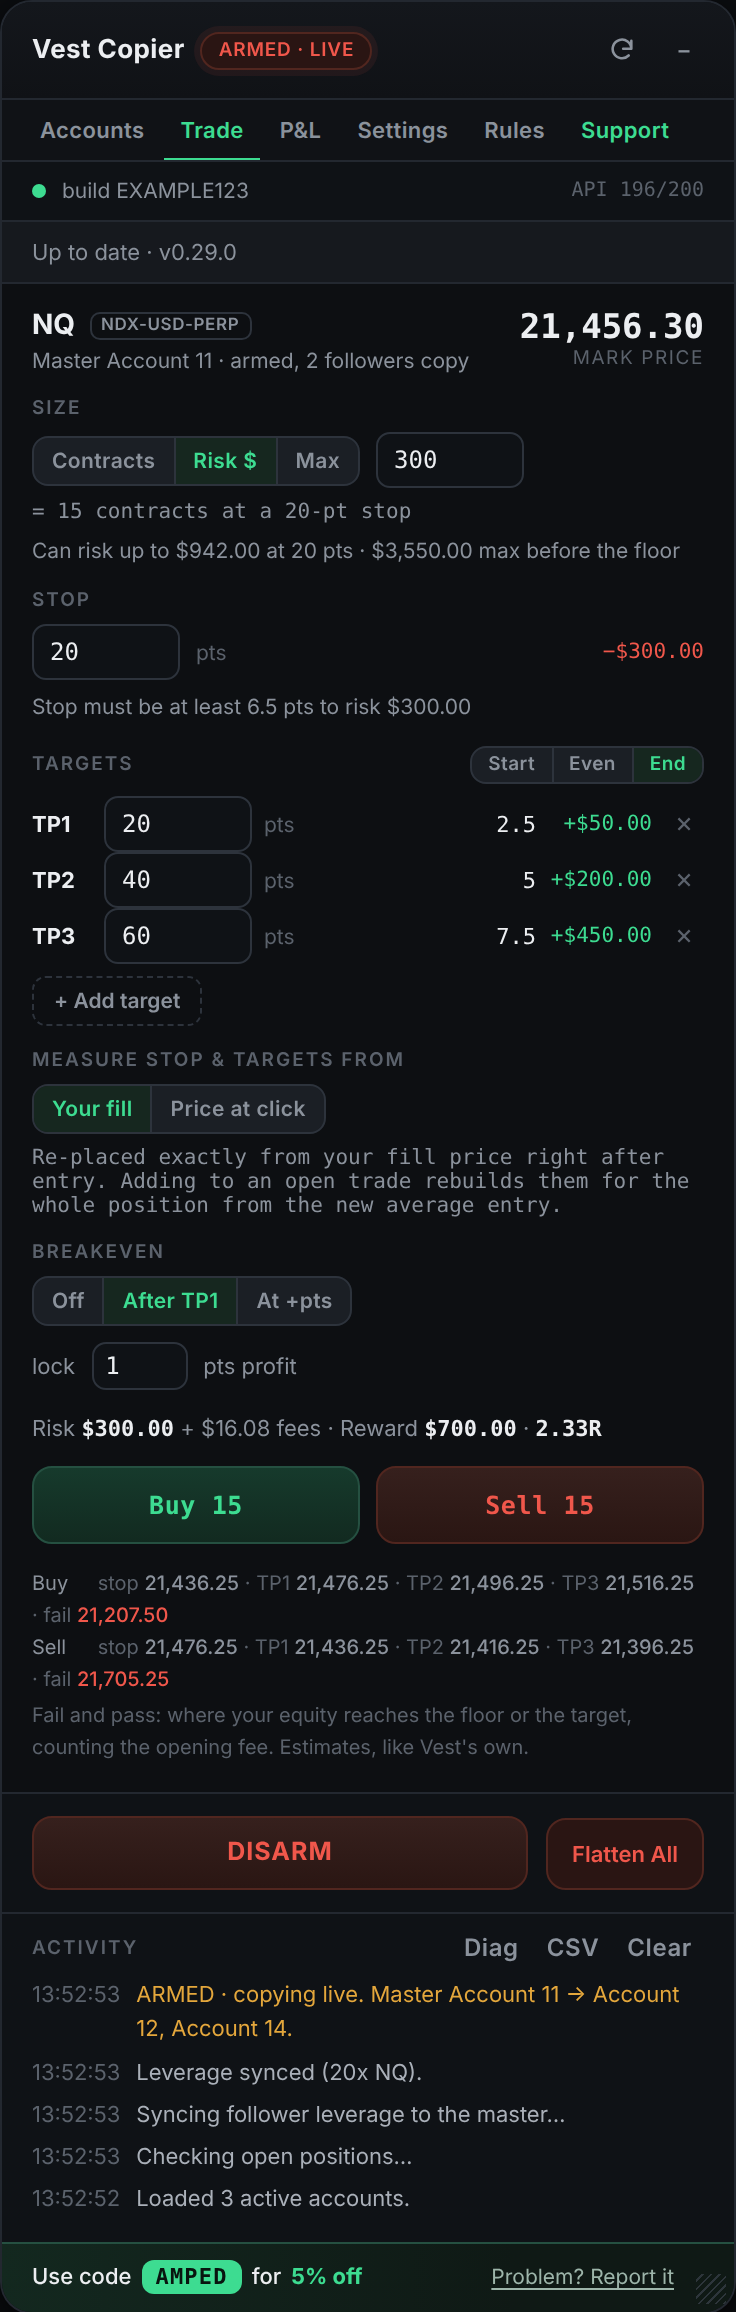
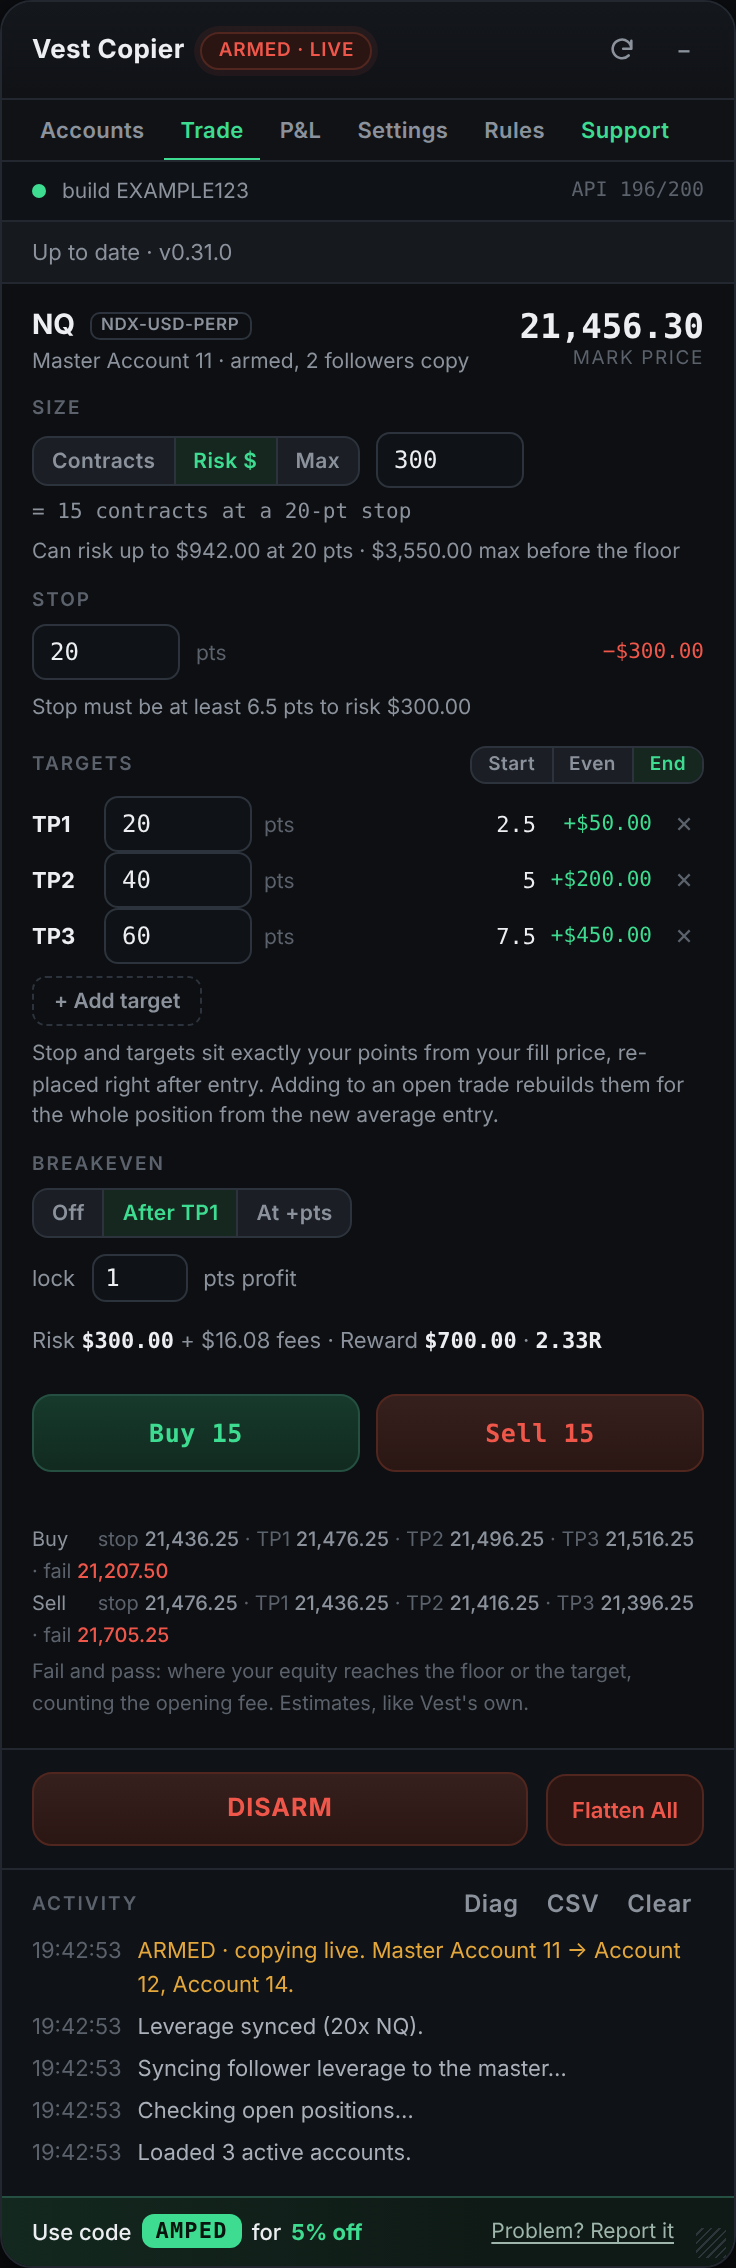
Vest Copier v0.31.0

diff --git a/src/vest-copier.user.js b/src/vest-copier.user.js
@@ -1,7 +1,7 @@
 // ==UserScript==
 // @name         Vest Copier
 // @namespace    vestcopier
-// @version      0.30.1
+// @version      0.31.0
 // @description  Copies a master Vest account's trades to your other Vest accounts, live, and adds a points-based order panel.
 // @author       xAmped
 // @license      Vest Copier License — free to use, no selling; see LICENSE
@@ -22,7 +22,7 @@
   if (window.__vestCopier) return;
   window.__vestCopier = true;
 
-  const VERSION = '0.30.1';
+  const VERSION = '0.31.0';
   const API = 'https://api-gateway.hz.vestmarkets.com';
   const _fetch = window.fetch.bind(window);
   // Console echo of the activity log, for troubleshooting: localStorage.setItem('vc-debug', '1') and reload.
@@ -109,7 +109,6 @@
       beMode: 'tp1',
       beTrigger: 15,
       beOffset: 1,
-      anchor: 'fill',
     },
     price: {}, // symbol -> { px, at } live price
   };
@@ -2283,6 +2282,7 @@
       symbol: SYMBOLS[t.symbol] ? t.symbol : S.trade.symbol,
       targets: Array.isArray(t.targets) && t.targets.length ? t.targets : S.trade.targets,
     });
+    delete S.trade.anchor; // "Price at click" was removed in v0.31.0: stop and targets are always measured from the fill
   }
   function saveTrade() {
     store.set(TRADE_KEY, S.trade);
@@ -3895,6 +3895,21 @@
       flex-direction: column;
       gap: 12px;
     }
+    /* Buy / Sell stay in view while the form scrolls */
+    .tr-action {
+      position: sticky;
+      bottom: -14px;
+      z-index: 2;
+      display: flex;
+      flex-direction: column;
+      gap: 6px;
+      margin: 0 -15px;
+      padding: 8px 15px 14px;
+      background: linear-gradient(180deg, rgba(13, 15, 18, 0.88), var(--bg) 30%);
+    }
+    .panel.v-trade .log {
+      max-height: 11vh;
+    }
     .tr-top {
       display: flex;
       justify-content: space-between;
@@ -4469,6 +4484,7 @@
       panel.style.top = drag.oy + e.clientY - drag.sy + 'px';
     });
     const endDrag = () => {
+      if (drag && S.tradeOpen) fitPanel(); // moved: the Trade tab refits to the new spot
       drag = null;
     };
     hdr.addEventListener('pointerup', endDrag);
@@ -4507,6 +4523,7 @@
     };
     on('[data-act="collapse"]', (e) => {
       const collapsed = panel.classList.toggle('collapsed');
+      fitPanel();
       const b = e.currentTarget;
       b.textContent = collapsed ? '+' : '–';
       b.title = collapsed ? 'Expand' : 'Collapse';
@@ -4584,6 +4601,20 @@
               : S.rulesOpen
                 ? 'rules'
                 : 'accounts';
+  // On the Trade tab the panel grows to the bottom of the window (from wherever it sits), so the whole order form fits
+  // without resizing by hand; elsewhere it keeps the size the user gave it. Never saved: leaving the tab restores it.
+  function fitPanel() {
+    const panel = _root && _root.querySelector('.panel');
+    if (!panel) return;
+    panel.classList.toggle('v-trade', !!S.tradeOpen);
+    const saved = store.get(SIZE_KEY, null);
+    if (S.tradeOpen && !panel.classList.contains('collapsed')) {
+      const top = Math.max(0, panel.getBoundingClientRect().top);
+      panel.style.maxHeight = Math.max(320, window.innerHeight - top - 16) + 'px';
+    } else panel.style.maxHeight = saved && saved.h ? saved.h + 'px' : '';
+  }
+  window.addEventListener('resize', () => S.tradeOpen && fitPanel());
+
   function setView(v) {
     S.tradeOpen = v === 'trade';
     S.summaryOpen = v === 'summary';
@@ -4676,6 +4707,7 @@
       b.setAttribute('aria-selected', String(b.dataset.tab === view));
     });
     renderLog();
+    fitPanel();
   }
 
   function renderSiteCheck(body) {
@@ -4979,14 +5011,8 @@
           ])}</div>
           <div id="tr-targets"></div>
           <button class="tr-add" id="tr-add">+ Add target</button>
-        </div>
-        <div class="tr-sec">
-          <div class="tr-lbl">Measure stop &amp; targets from</div>
-          ${seg('anchor', [
-            ['fill', 'Your fill'],
-            ['click', 'Price at click'],
-          ])}
-          <div class="tr-calc" id="tr-anchornote"></div>
+          <div class="tr-lim">Stop and targets sit exactly your points from your fill price, re-placed right after entry.
+            Adding to an open trade rebuilds them for the whole position from the new average entry.</div>
         </div>
         <div class="tr-sec">
           <div class="tr-lbl">Breakeven</div>
@@ -5002,8 +5028,10 @@
         </div>
         <div class="tr-sum" id="tr-sum"></div>
         <div class="tr-warn" id="tr-warn"></div>
-        <div class="tr-err" id="tr-err"></div>
-        <div class="tr-go"><button class="tr-buy" id="tr-buy">Buy</button><button class="tr-sell" id="tr-sell">Sell</button></div>
+        <div class="tr-action">
+          <div class="tr-err" id="tr-err"></div>
+          <div class="tr-go"><button class="tr-buy" id="tr-buy">Buy</button><button class="tr-sell" id="tr-sell">Sell</button></div>
+        </div>
         <div class="tr-preview" id="tr-preview"></div>
         <div class="tr-plans" id="tr-plans"></div>
       </div>`;
@@ -5205,7 +5233,7 @@
         takeProfitIds: res.takeProfitIds,
         stopLossIds: res.stopLossIds,
       });
-      const reanchorOn = t.anchor !== 'click';
+      const reanchorOn = true; // always: stop and targets end up exactly their points from the real fill
       let bePlan = null;
       if (t.beMode !== 'off') {
         bePlan = {
@@ -5520,7 +5548,7 @@
     });
   }
 
-  // ── Re-anchor after fill (on by default). The order's stop and targets are computed from the live price at the click.
+  // ── Re-anchor after fill (always). The order's stop and targets are computed from the live price at the click.
   // Once filled, read the fill price and the position's leg ids, and move any leg that is off by a tick or more so it
   // sits exactly N points from the fill. Legs are found by the price they were sent at. The moves go through the hooked
   // fetch, so an armed copier moves the followers' matching legs too. Breakeven waits until this is done.
@@ -5905,11 +5933,6 @@
       if (qe) qe.textContent = q ? fmtQty(q, c.t.symbol) : '—';
       if (ge) ge.textContent = q ? '+' + fmtUsd(q * (+p || 0) * c.meta.pointValue) : '';
     });
-    $('tr-anchornote').textContent =
-      (c.t.anchor === 'click'
-        ? 'Placed from the live price when you click.'
-        : 'Re-placed exactly from your fill price right after entry.') +
-      ' Adding to an open trade rebuilds them for the whole position from the new average entry.';
     $('tr-betrigw').style.display = c.t.beMode === 'points' ? '' : 'none';
     body.querySelector('.tr-be').style.display = c.t.beMode === 'off' ? 'none' : '';
     $('tr-sum').innerHTML =
@@ -5947,7 +5970,10 @@
         };
       });
     }
-    $('tr-err').textContent = c.error || (S.adjusting ? 'Adjusting stop & targets…' : '');
+    $('tr-err').textContent =
+      c.error ||
+      (c.blocked ? 'Over what the account can open: use a fix above, or change the size or stop.' : '') ||
+      (S.adjusting ? 'Adjusting stop & targets…' : '');
     const q = c.qty > 0 ? fmtQty(c.qty, c.t.symbol) : '';
     $('tr-buy').textContent = `Buy ${q}`;
     $('tr-sell').textContent = `Sell ${q}`;

diff --git a/docs/tutorial/index.html b/docs/tutorial/index.html
@@ -143,7 +143,7 @@ dd { margin: 0; font-size: 15.5px; }
   <p class="lede">Trade one Vest account and have the same trade placed on your other accounts, live, from inside the Vest page. It also adds a Trade tab where you set your stop and targets in points.</p>
   <div class="video"><iframe src="https://www.youtube-nocookie.com/embed/EMpVqls6D8o" title="Vest Copier setup video" loading="lazy" allow="accelerometer; encrypted-media; gyroscope; picture-in-picture; fullscreen" allowfullscreen></iframe></div>
   <p class="video-link">Prefer YouTube? <a href="https://youtu.be/EMpVqls6D8o">Watch the setup video there</a> (6 minutes).</p>
-  <div class="meta"><span class="pill">v0.30.1</span><span class="pill">next.vestmarkets.com</span><span class="pill">10-minute setup</span><a class="pill" href="https://github.com/xAmped/Vest-Copier">github.com/xAmped/Vest-Copier</a></div>
+  <div class="meta"><span class="pill">v0.31.0</span><span class="pill">next.vestmarkets.com</span><span class="pill">10-minute setup</span><a class="pill" href="https://github.com/xAmped/Vest-Copier">github.com/xAmped/Vest-Copier</a></div>
 </header>
 
 <div class="wrap">
@@ -211,12 +211,11 @@ dd { margin: 0; font-size: 15.5px; }
                 <tr><td>Stop</td><td>Distance from your entry, in points.</td></tr>
                 <tr><td>Targets</td><td>One or more distances in points. <b>+ Add target</b> adds another.</td></tr>
                 <tr><td>Scale</td><td>How the size splits across targets: <b>Start</b> puts the most on TP1, <b>Even</b> splits evenly, <b>End</b> puts the most on the last target.</td></tr>
-                <tr><td>Measure from</td><td><b>Your fill</b> (default) moves the stop and targets to exactly your points from the price you actually got. <b>Price at click</b> leaves them where they were placed.</td></tr>
                 <tr><td>Breakeven</td><td><b>After TP1</b> or <b>At +pts</b> moves the stop to your entry. <b>Lock</b> adds a point or two of profit to cover fees.</td></tr>
               </tbody>
             </table>
           </div>
-          <p>Before you click, the panel shows each target's size and dollar value, your risk (and the fees on top), reward and R, and the exact prices for both Buy and Sell, including where the account would fail or pass. It warns you when the size is more than the account can open, or when a stop-out would take the account past its floor before the stop fills. Stops and targets are placed as Vest's own stop-loss and take-profit orders, so they still work if you close the tab.</p>
+          <p>Before you click, the panel shows each target's size and dollar value, your risk (and the fees on top), reward and R, and the exact prices for both Buy and Sell, including where the account would fail or pass. It warns you when the size is more than the account can open, or when a stop-out would take the account past its floor before the stop fills. Right after you're filled, the stop and targets are moved to exactly your points from the price you actually got. Stops and targets are placed as Vest's own stop-loss and take-profit orders, so they still work if you close the tab.</p>
         </div>
         <figure>
           <div class="shot"><img src="img/trade.png" alt="The Trade tab with a 20-point stop, three targets at 20, 40 and 60 points, and the Buy and Sell buttons." width="340"></div>

diff --git a/docs/USER-GUIDE.md b/docs/USER-GUIDE.md
@@ -144,8 +144,10 @@ like any other master order.
 - **Warning** (amber, the order can still be sent): a stop-out would lose more, fees included, than the room left to the
   floor, so the account fails before the stop fills.
 - It then sends a market order with the stop and targets attached as native Vest legs (they work on
-  Vest's side even if your tab closes). By default the stop and targets are then re-placed exactly N points from
-  your **fill** (Measure from → *Your fill*); choose *Price at click* to leave them where they were placed.
+  Vest's side even if your tab closes). Right after the fill, the stop and targets are re-placed exactly N points from
+  your **fill** price, so the distances are always your real points.
+- **Fits your screen:** on the Trade tab the panel grows to the bottom of the window, and Buy/Sell stay pinned in view
+  while you scroll the form.
 - **Adding to a trade** — if the master already holds the same direction, Buy/Sell **adds** to it (Vest's own
   "add to position" order, which followers copy, scaled). The stop and targets are then rebuilt as **one ladder for
   the whole position**, measured from the **new average entry**: stop N points away, targets re-priced, and the full

diff --git a/CHANGELOG.md b/CHANGELOG.md
@@ -2,6 +2,10 @@
 
 Newest first. To update, click **Install** on the green bar that appears in the panel whenever there's a newer version.
 
+## v0.31.0
+- **The Trade tab fits your screen.** It grows to the bottom of the window by itself, and Buy and Sell stay pinned in view (with the reason if they're blocked) while you scroll, so they're never hidden. The activity log is shorter on this tab to make room. Other tabs keep your size.
+- **Stop and targets are always measured from your fill.** The "Price at click" option is gone: right after entry, the stop and targets move to exactly your points from the price you actually got. Anyone who had it switched to "Price at click" now uses the fill.
+
 ## v0.30.1
 - **Claim all profit is faster:** accounts are now claimed 2 seconds apart instead of 6, still one at a time and each re-checked right before its claim.
 
